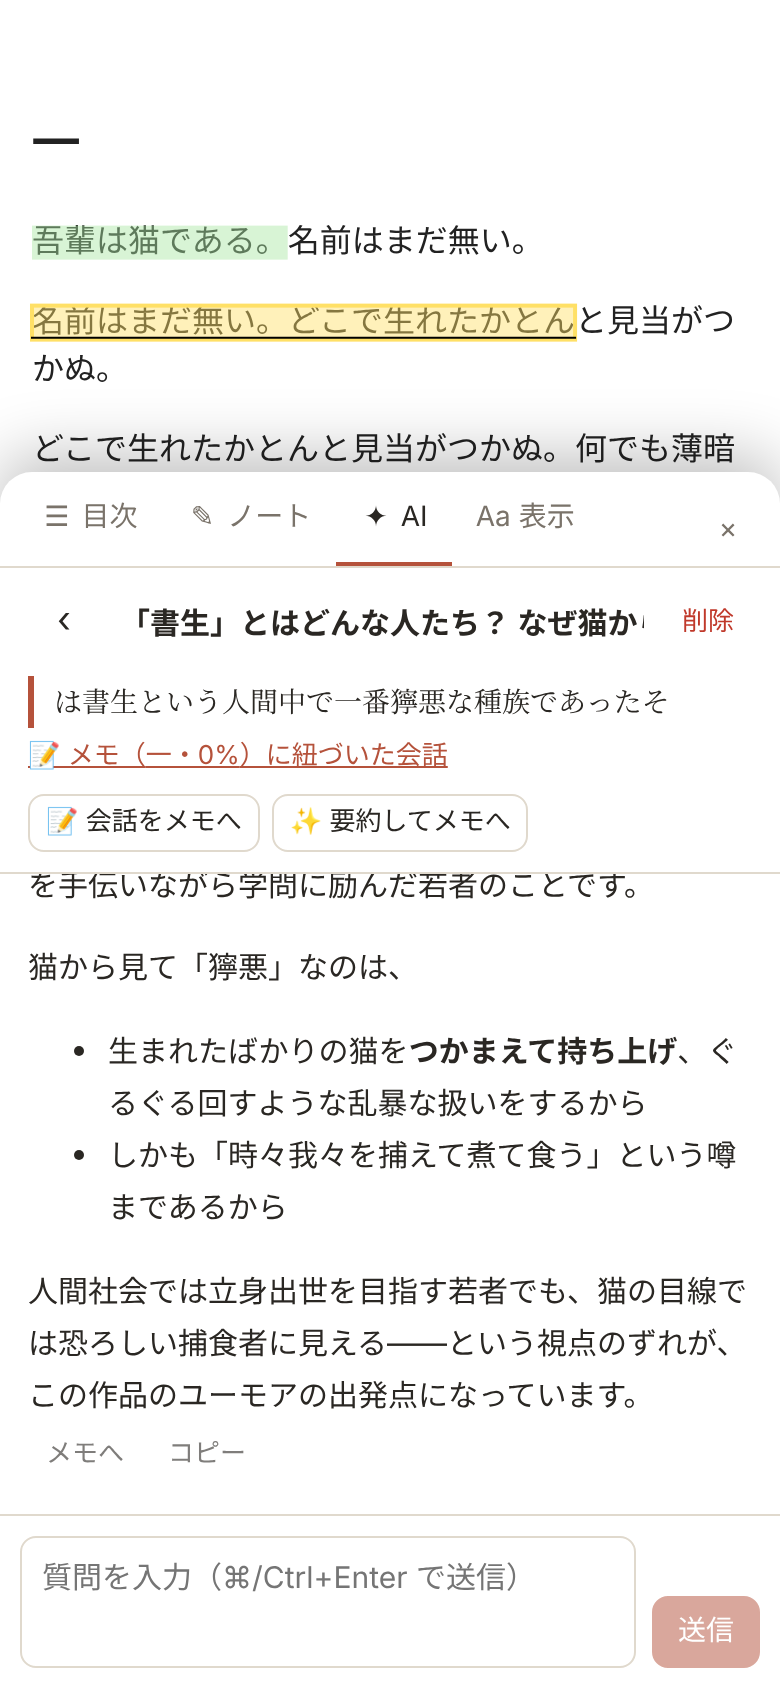
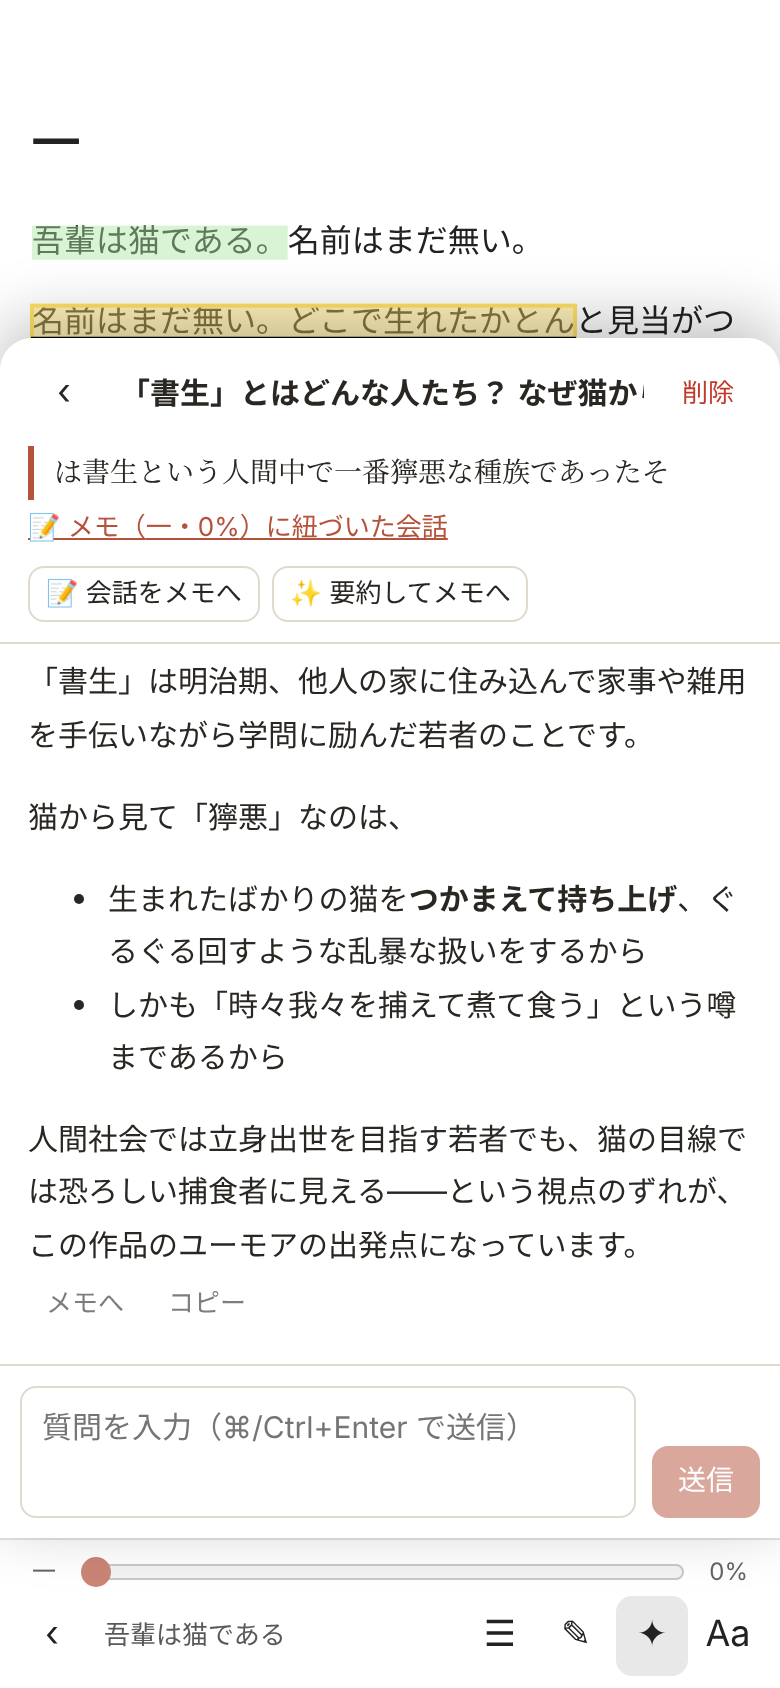
Fit PDFs to the width, type a zoom level, and keep the toolbar under panels
- PDF zoom: fit the whole page, fit the width (no side margins), or a
  percentage; －/＋ step by 10% and tapping the percentage opens a menu
  to type a value or pick a fit. The choice is remembered per device.
- On phones the panel opens as a sheet above the bottom toolbar instead
  of covering it, so its buttons switch panels and close the open one;
  the panel's own tab row is hidden there.
- Fix typed text being lost when writing the first memo of a book: the
  margin appearing re-lays out the book, which briefly removed the card
  being edited. The card now keeps its place, and the editor saves
  pending text if it is removed anyway.

Claude-Session: https://claude.ai/code/session_01HCrtbFd7tgvCtdMb7FLRcg

Changed region(s): [[0.0, 0.1848, 1.0, 1.0], [0.9231, 0.3081, 0.9538, 0.3389], [0.7077, 0.955, 0.7385, 0.9858]]

diff --git a/web/src/pages/Reader.tsx b/web/src/pages/Reader.tsx
@@ -10,7 +10,7 @@ import { hasContent } from "../memos";
 import EpubView from "../reader/EpubView";
 import MemoMargin from "../reader/MemoMargin";
 import PdfView from "../reader/PdfView";
-import { highlightColors, Mark, ReaderHandle, ReaderSettings, Selection, TocItem } from "../reader/types";
+import { highlightColors, Mark, PdfZoom, ReaderHandle, ReaderSettings, Selection, TocItem } from "../reader/types";
 
 type PanelTab = "toc" | "note" | "ai" | "settings";
 
@@ -28,6 +28,15 @@ function loadSettings(): ReaderSettings {
     return { ...defaultSettings, ...JSON.parse(localStorage.getItem("fuguruma:reader") || "{}") };
   } catch {
     return defaultSettings;
+  }
+}
+
+function loadZoom(): PdfZoom {
+  try {
+    const v = JSON.parse(localStorage.getItem("fuguruma:pdf-zoom") || '"page"');
+    return v === "width" || typeof v === "number" ? v : "page";
+  } catch {
+    return "page";
   }
 }
 
@@ -55,7 +64,8 @@ export default function Reader() {
   const [openConv, setOpenConv] = useState<string | null>(null);
   const [active, setActive] = useState<string | null>(null); // memo shown in the margin or the sheet
   const [editing, setEditing] = useState(false);
-  const [zoom, setZoom] = useState(1); // PDF only
+  const [zoom, setZoom] = useState<PdfZoom>(loadZoom); // PDF only, remembered per device
+  const [zoomFactor, setZoomFactor] = useState(1); // the zoom in effect, relative to the whole page
   const [viewerWidth, setViewerWidth] = useState(0);
   const [layoutTick, setLayoutTick] = useState(0);
   const lastSaved = useRef(0);
@@ -94,6 +104,12 @@ export default function Reader() {
       localStorage.setItem("fuguruma:reader", JSON.stringify(settings));
     } catch { /* ignore */ }
   }, [settings]);
+
+  useEffect(() => {
+    try {
+      localStorage.setItem("fuguruma:pdf-zoom", JSON.stringify(zoom));
+    } catch { /* ignore */ }
+  }, [zoom]);
 
   // Save reading position (debounced). keepalive lets it finish if the tab closes.
   useEffect(() => {
@@ -281,6 +297,7 @@ export default function Reader() {
             onCenterTap={onCenterTap}
             onLayout={onLayout}
             zoom={zoom}
+            onZoomChange={setZoomFactor}
           />
           {marginOn && (
             <MemoMargin
@@ -396,11 +413,7 @@ export default function Reader() {
           <button className="icon-btn" onClick={() => nav("/")} aria-label="本棚へ" title="本棚へ">‹</button>
           <div className="title" title={book.title}>{book.title}</div>
           {book.format === "pdf" && (
-            <div className="zoom" role="group" aria-label="拡大縮小">
-              <button className="icon-btn" onClick={() => setZoom((z) => Math.max(0.5, z - 0.25))} aria-label="縮小">－</button>
-              <button className="zoom-level" onClick={() => setZoom(1)} title="ページ全体を表示">{Math.round(zoom * 100)}%</button>
-              <button className="icon-btn" onClick={() => setZoom((z) => Math.min(4, z + 0.25))} aria-label="拡大">＋</button>
-            </div>
+            <ZoomControl zoom={zoom} factor={zoomFactor} onChange={setZoom} />
           )}
           {panelTabs.map((t) => (
             <button key={t.id} className={`icon-btn ${panel === t.id ? "active" : ""}`} onClick={() => togglePanel(t.id)} title={t.label} aria-label={t.label}>
@@ -419,6 +432,72 @@ export default function Reader() {
           onAsk={() => createFromSelection("yellow", "ask")}
           onCopy={() => { navigator.clipboard.writeText(sel.text); clearSel(); toast("コピーしました"); }}
         />
+      )}
+    </div>
+  );
+}
+
+const ZOOM_MIN = 0.25;
+const ZOOM_MAX = 4;
+const clampZoom = (z: number) => Math.min(ZOOM_MAX, Math.max(ZOOM_MIN, z));
+
+/** PDF zoom: －/＋ in 10% steps; the percentage opens a menu to type a value or fit the page / width. */
+function ZoomControl({ zoom, factor, onChange }: { zoom: PdfZoom; factor: number; onChange: (z: PdfZoom) => void }) {
+  const [open, setOpen] = useState(false);
+  const [text, setText] = useState("");
+  const root = useRef<HTMLDivElement>(null);
+  const pct = Math.round(factor * 100);
+  // Step from the zoom in effect to the next multiple of 10%.
+  const step = (dir: 1 | -1) => onChange(clampZoom((dir > 0 ? Math.floor(pct / 10) + 1 : Math.ceil(pct / 10) - 1) / 10));
+
+  useEffect(() => {
+    if (!open) return;
+    setText(String(pct));
+    const onDown = (e: PointerEvent) => !root.current?.contains(e.target as Node) && setOpen(false);
+    document.addEventListener("pointerdown", onDown);
+    return () => document.removeEventListener("pointerdown", onDown);
+    // Only when the menu opens.
+    // eslint-disable-next-line react-hooks/exhaustive-deps
+  }, [open]);
+
+  const apply = () => {
+    const v = Number(text);
+    if (Number.isFinite(v) && v > 0) onChange(clampZoom(v / 100));
+    setOpen(false);
+  };
+  const choose = (z: PdfZoom) => {
+    onChange(z);
+    setOpen(false);
+  };
+
+  return (
+    <div className="zoom" role="group" aria-label="拡大縮小" ref={root}>
+      <button className="icon-btn" onClick={() => step(-1)} aria-label="縮小">－</button>
+      <button className="zoom-level" onClick={() => setOpen((v) => !v)} aria-expanded={open} title="拡大率を指定">
+        {zoom === "width" ? "幅" : `${pct}%`}
+      </button>
+      <button className="icon-btn" onClick={() => step(1)} aria-label="拡大">＋</button>
+      {open && (
+        <div className="zoom-menu">
+          <form className="row" onSubmit={(e) => { e.preventDefault(); apply(); }}>
+            <input
+              className="input"
+              type="number"
+              inputMode="numeric"
+              min={ZOOM_MIN * 100}
+              max={ZOOM_MAX * 100}
+              value={text}
+              autoFocus
+              aria-label="拡大率（%）"
+              onChange={(e) => setText(e.target.value)}
+              onFocus={(e) => e.target.select()}
+            />
+            <span>%</span>
+            <button className="btn primary small" type="submit">適用</button>
+          </form>
+          <button className={`btn small ${zoom === "width" ? "active" : ""}`} onClick={() => choose("width")}>横幅に合わせる</button>
+          <button className={`btn small ${zoom === "page" ? "active" : ""}`} onClick={() => choose("page")}>ページ全体</button>
+        </div>
       )}
     </div>
   );

diff --git a/web/src/styles.css b/web/src/styles.css
@@ -190,7 +190,7 @@ button, input, select, textarea { font: inherit; color: inherit; }
 .reader-toolbar .title { flex: 1; min-width: 0; font-size: 13px; white-space: nowrap; overflow: hidden; text-overflow: ellipsis; opacity: 0.75; padding: 0 6px; }
 .reader-toolbar .icon-btn { color: var(--rfg); width: 40px; height: 40px; }
 .reader-toolbar .icon-btn:hover, .reader-toolbar .icon-btn.active { background: color-mix(in srgb, var(--rfg) 10%, transparent); }
-.reader-toolbar .zoom { display: flex; align-items: center; margin-right: 6px; border: 1px solid color-mix(in srgb, var(--rfg) 18%, transparent); border-radius: 10px; }
+.reader-toolbar .zoom { position: relative; display: flex; align-items: center; margin-right: 6px; border: 1px solid color-mix(in srgb, var(--rfg) 18%, transparent); border-radius: 10px; }
 .reader-toolbar .zoom .icon-btn { width: 34px; height: 34px; }
 .reader-toolbar .zoom-level { border: none; background: none; color: var(--rfg); font-size: 12px; min-width: 44px; cursor: pointer; padding: 0; }
 @media (max-width: 480px) {
@@ -207,6 +207,7 @@ button, input, select, textarea { font: inherit; color: inherit; }
 .loading { position: absolute; inset: 0; display: grid; place-items: center; opacity: 0.6; }
 
 .pdf-view { position: absolute; inset: 0; overflow: auto; display: flex; justify-content: center; align-items: flex-start; padding: 12px; padding-top: max(12px, env(safe-area-inset-top)); }
+.pdf-view.fit-width { padding-left: 0; padding-right: 0; }
 .pdf-page { position: relative; background: #fff; box-shadow: var(--shadow); margin: auto; }
 .pdf-page canvas { display: block; }
 .pdf-hl { position: absolute; inset: 0; pointer-events: none; z-index: 1; }
@@ -234,11 +235,12 @@ button, input, select, textarea { font: inherit; color: inherit; }
   width: 400px; flex: none; display: flex; flex-direction: column; min-height: 0;
   background: var(--surface); color: var(--text); border-left: 1px solid var(--border);
 }
+/* On narrow screens the panel is a sheet above the bottom toolbar, which stays
+   visible: its buttons switch between panels and close the open one. */
 @media (max-width: 899px) {
   .panel {
-    position: fixed; left: 0; right: 0; bottom: 0; width: auto; height: 72vh; z-index: 20;
+    position: absolute; left: 0; right: 0; bottom: 0; width: auto; height: 78%; z-index: 20;
     border-left: none; border-radius: 16px 16px 0 0; box-shadow: 0 -8px 32px rgb(0 0 0 / 0.25);
-    padding-bottom: env(safe-area-inset-bottom);
   }
 }
 .panel-tabs { display: flex; border-bottom: 1px solid var(--border); padding: 0 8px; align-items: center; }
@@ -249,6 +251,10 @@ button, input, select, textarea { font: inherit; color: inherit; }
 .panel-tabs button.active { color: var(--text); border-bottom-color: var(--accent); }
 .panel-tabs .tab-icon { display: inline-block; min-width: 1.2em; margin-right: 4px; text-align: center; }
 .panel-body { flex: 1; overflow: auto; min-height: 0; }
+@media (max-width: 899px) {
+  .panel-tabs { display: none; }
+  .panel-body { border-radius: 16px 16px 0 0; }
+}
 .list-item { padding: 12px 16px; border-bottom: 1px solid var(--border); cursor: pointer; }
 .list-item:hover { background: var(--surface-2); }
 .quote {
@@ -441,3 +447,11 @@ button.memo-place:hover { color: var(--accent); text-decoration: underline; }
 @media (hover: none) { .note-text-del { opacity: 0.5; } }
 .editor-scroll { flex: 1; overflow: auto; min-height: 0; }
 .editor-scroll .book-note { max-width: 760px; margin: 0 auto; }
+
+.zoom-menu {
+  position: absolute; bottom: calc(100% + 8px); right: 0; z-index: 30; display: grid; gap: 6px; width: 210px; padding: 10px;
+  background: var(--surface); color: var(--text); border: 1px solid var(--border); border-radius: 10px; box-shadow: var(--shadow);
+}
+.zoom-menu .row { gap: 6px; align-items: center; }
+.zoom-menu input { width: 0; flex: 1; text-align: right; }
+.zoom-menu .btn.active { border-color: var(--accent); background: color-mix(in srgb, var(--accent) 14%, var(--surface)); }

diff --git a/web/src/reader/PdfView.tsx b/web/src/reader/PdfView.tsx
@@ -33,7 +33,8 @@ const PdfView = forwardRef<ReaderHandle, ReaderViewProps>(function PdfView(props
   const textEl = useRef<HTMLDivElement>(null);
   const [doc, setDoc] = useState<PDFDocumentProxy | null>(null);
   const [page, setPage] = useState(props.initial?.type === "pdf" ? props.initial.page : 1);
-  const zoom = props.zoom ?? 1;
+  const zoom = props.zoom ?? "page";
+  const overflowX = useRef(false); // the page is wider than the view (scrolls sideways)
   const [size, setSize] = useState({ w: 0, h: 0 });
   const [error, setError] = useState("");
   const pageText = useRef("");
@@ -106,9 +107,13 @@ const PdfView = forwardRef<ReaderHandle, ReaderViewProps>(function PdfView(props
       const pg = await doc.getPage(page);
       if (cancelled) return;
       const base = pg.getViewport({ scale: 1 });
-      const pad = 24;
-      const fit = Math.min((size.w - pad) / base.width, (size.h - pad) / base.height);
-      const viewport = pg.getViewport({ scale: fit * zoom });
+      const pad = zoom === "width" ? 0 : 24;
+      const fitPage = Math.min((size.w - 24) / base.width, (size.h - 24) / base.height);
+      const fitWidth = (size.w - pad) / base.width;
+      const scale = zoom === "page" ? fitPage : zoom === "width" ? fitWidth : fitPage * zoom;
+      overflowX.current = scale > fitWidth + 0.001;
+      p.current.onZoomChange?.(scale / fitPage);
+      const viewport = pg.getViewport({ scale });
       const dpr = window.devicePixelRatio || 1;
       const canvas = canvasEl.current!;
       canvas.width = Math.floor(viewport.width * dpr);
@@ -142,6 +147,9 @@ const PdfView = forwardRef<ReaderHandle, ReaderViewProps>(function PdfView(props
       task?.cancel();
     };
   }, [doc, page, zoom, size]);
+
+  // A new page starts at its top (pages taller than the view scroll).
+  useEffect(() => scroller.current?.scrollTo(0, 0), [page]);
 
   // Report text selections inside the text layer.
   useEffect(() => {
@@ -197,7 +205,7 @@ const PdfView = forwardRef<ReaderHandle, ReaderViewProps>(function PdfView(props
     if ((e.target as HTMLElement).closest(".pdf-hl div")) return;
     const r = scroller.current!.getBoundingClientRect();
     const rel = (e.clientX - r.left) / r.width;
-    if (zoom > 1 && rel > 0.15 && rel < 0.85) return p.current.onCenterTap();
+    if (overflowX.current && rel > 0.15 && rel < 0.85) return p.current.onCenterTap();
     if (rel < 0.3) prev();
     else if (rel > 0.7) next();
     else p.current.onCenterTap();
@@ -208,13 +216,13 @@ const PdfView = forwardRef<ReaderHandle, ReaderViewProps>(function PdfView(props
 
   return (
     <div
-      className="pdf-view"
+      className={`pdf-view ${zoom === "width" ? "fit-width" : ""}`}
       ref={scroller}
       onClick={onClick}
       onScroll={() => p.current.onLayout?.()}
       onTouchStart={(e) => (touch.current = { x: e.touches[0].clientX, y: e.touches[0].clientY, t: Date.now() })}
       onTouchEnd={(e) => {
-        if (zoom > 1 || window.getSelection()?.toString()) return;
+        if (overflowX.current || window.getSelection()?.toString()) return;
         const dx = e.changedTouches[0].clientX - touch.current.x;
         const dy = e.changedTouches[0].clientY - touch.current.y;
         if (Date.now() - touch.current.t < 600 && Math.abs(dx) > 50 && Math.abs(dx) > Math.abs(dy)) (dx < 0 ? next() : prev());

diff --git a/web/src/reader/MemoMargin.tsx b/web/src/reader/MemoMargin.tsx
@@ -30,13 +30,18 @@ export default function MemoMargin({
   const [heights, setHeights] = useState<Record<string, number>>({});
   const [box, setBox] = useState<DOMRect | null>(null);
   const cards = useRef(new Map<string, HTMLDivElement>());
+  const editingNow = useRef(editing);
+  editingNow.current = editing;
 
   const measure = useCallback(() => {
     const parent = root.current?.parentElement;
     if (!parent) return;
     setBox(parent.getBoundingClientRect());
-    setAnchors(getAnchors());
-  }, [getAnchors]);
+    const next = getAnchors();
+    // While the text is re-laid out (e.g. the margin just appeared) a passage can be
+    // briefly unfindable; keep the card being edited where it was instead of removing it.
+    setAnchors((prev) => (editingNow.current && active && !next[active] && prev[active] ? { ...next, [active]: prev[active] } : next));
+  }, [getAnchors, active]);
 
   // The views draw asynchronously, so measure again shortly after a change.
   useEffect(() => {

diff --git a/web/src/reader/types.ts b/web/src/reader/types.ts
@@ -67,9 +67,13 @@ export interface ReaderViewProps {
   onLayout?(): void;
   /** Tap in the middle of the page. */
   onCenterTap(): void;
-  /** PDF only: zoom factor relative to fitting the page (1 = fit). */
-  zoom?: number;
+  /** PDF only: fit the whole page, fit the width, or a factor of the whole-page size. */
+  zoom?: PdfZoom;
+  /** PDF only: the zoom in effect, as a factor of the whole-page size (e.g. 1.12 when fitting the width). */
+  onZoomChange?(factor: number): void;
 }
+
+export type PdfZoom = "page" | "width" | number;
 
 export const highlightColors: Record<string, string> = {
   yellow: "#ffe066",

diff --git a/web/src/components/InlineMarkdown.tsx b/web/src/components/InlineMarkdown.tsx
@@ -41,6 +41,17 @@ export default function InlineMarkdown({
     onSave(v);
   };
 
+  // Save what was typed if the editor goes away before the pause (e.g. its card is re-laid out).
+  const latest = useRef({ text, onSave });
+  latest.current = { text, onSave };
+  useEffect(
+    () => () => {
+      const { text: t, onSave: save } = latest.current;
+      if (t !== saved.current) save(t);
+    },
+    [],
+  );
+
   useEffect(() => {
     if (!isEditing) return;
     const t = setTimeout(() => flush(), 800);

diff --git a/docs/SPEC.md b/docs/SPEC.md
@@ -87,9 +87,10 @@
 
 ### 3.3 リーダー
 - EPUB：ページ送り（paginated）。左右タップ / スワイプ / キーボード矢印でページ移動。目次ジャンプ。
-- PDF：ページ単位表示、幅フィット、ズーム、ページ番号ジャンプ。
+- PDF：ページ単位表示、ページ番号ジャンプ。ズームは「ページ全体」「横幅に合わせる」（左右の余白なし。縦に長ければスクロール）と倍率指定（ページ全体を 100% とする %。－／＋は 10% 刻み、% の表示を押すと数値入力）。選んだズームは端末ごとに記憶する。
 - 表示設定（端末ごと・localStorage）：文字サイズ、本文フォント、テーマ（ライト / セピア / ダーク）。テーマはパネルやボタンを含むリーダー全体の配色を決め、OS のライト / ダーク設定には左右されない。
 - 操作部は画面下部にまとめる（スマホで指が届きやすいように。PC も同じ配置）：進捗スライダーの行と、本棚へ戻る・書名・PDF のズーム・目次・ノート・AI・表示設定の行（パネルのタブと同じ順・同じアイコン）。中央タップでツールバーを隠す。
+- スマホではパネルを下部の操作部の上に重ねるシートとして開き、操作部は隠さない。操作部のボタンでパネルを切り替え、開いているパネルのボタンをもう一度押すと閉じる（パネル内のタブ行は出さない）。
 - `?at=<locator JSON>` 付きの URL で開くと、その位置から表示する。`?memo=<id>` でそのメモを、`?conv=<id>` でその AI 会話を開く（ノート画面からのジャンプ用）。
 - **読書位置の同期**：位置（EPUB は CFI、PDF はページ番号）と進捗率をサーバーに保存。別端末で開くと続きから。後勝ち（`updated_at` 比較）。
 
@@ -273,7 +274,7 @@ SSE イベント（`data: <json>`）：`{"type":"delta","text":"..."}` / `{"type
 
 1. **ログイン**（パスワード設定時のみ）
 2. **本棚**：ヘッダ（検索・並び替え・再スキャン）、タグチップ列、表紙グリッド。長押し/右クリック or 「…」で本の編集（タグ・タイトル）。
-3. **リーダー**：全画面。操作部は下部（進捗と、戻る・目次・設定・パネル・PDF のズーム）。中央タップでツールバーを表示/非表示。右（スマホは下からのシート）にパネル：目次 / ノート / AI / 表示。余白があれば本文の横にメモのカード（§3.4）。
+3. **リーダー**：全画面。操作部は下部（進捗と、戻る・目次・設定・パネル・PDF のズーム）。中央タップでツールバーを表示/非表示。右（スマホは操作部の上に重なるシート）にパネル：目次 / ノート / AI / 表示。余白があれば本文の横にメモのカード（§3.4）。
 4. **ノート**：本のノート（前書き + メモ）と、本に紐づかないノート（Markdown 編集 + プレビュー）。
 5. **設定**：AI 連携、ライブラリ、ログインパスワード、サーバー情報（§3.8）。
 
